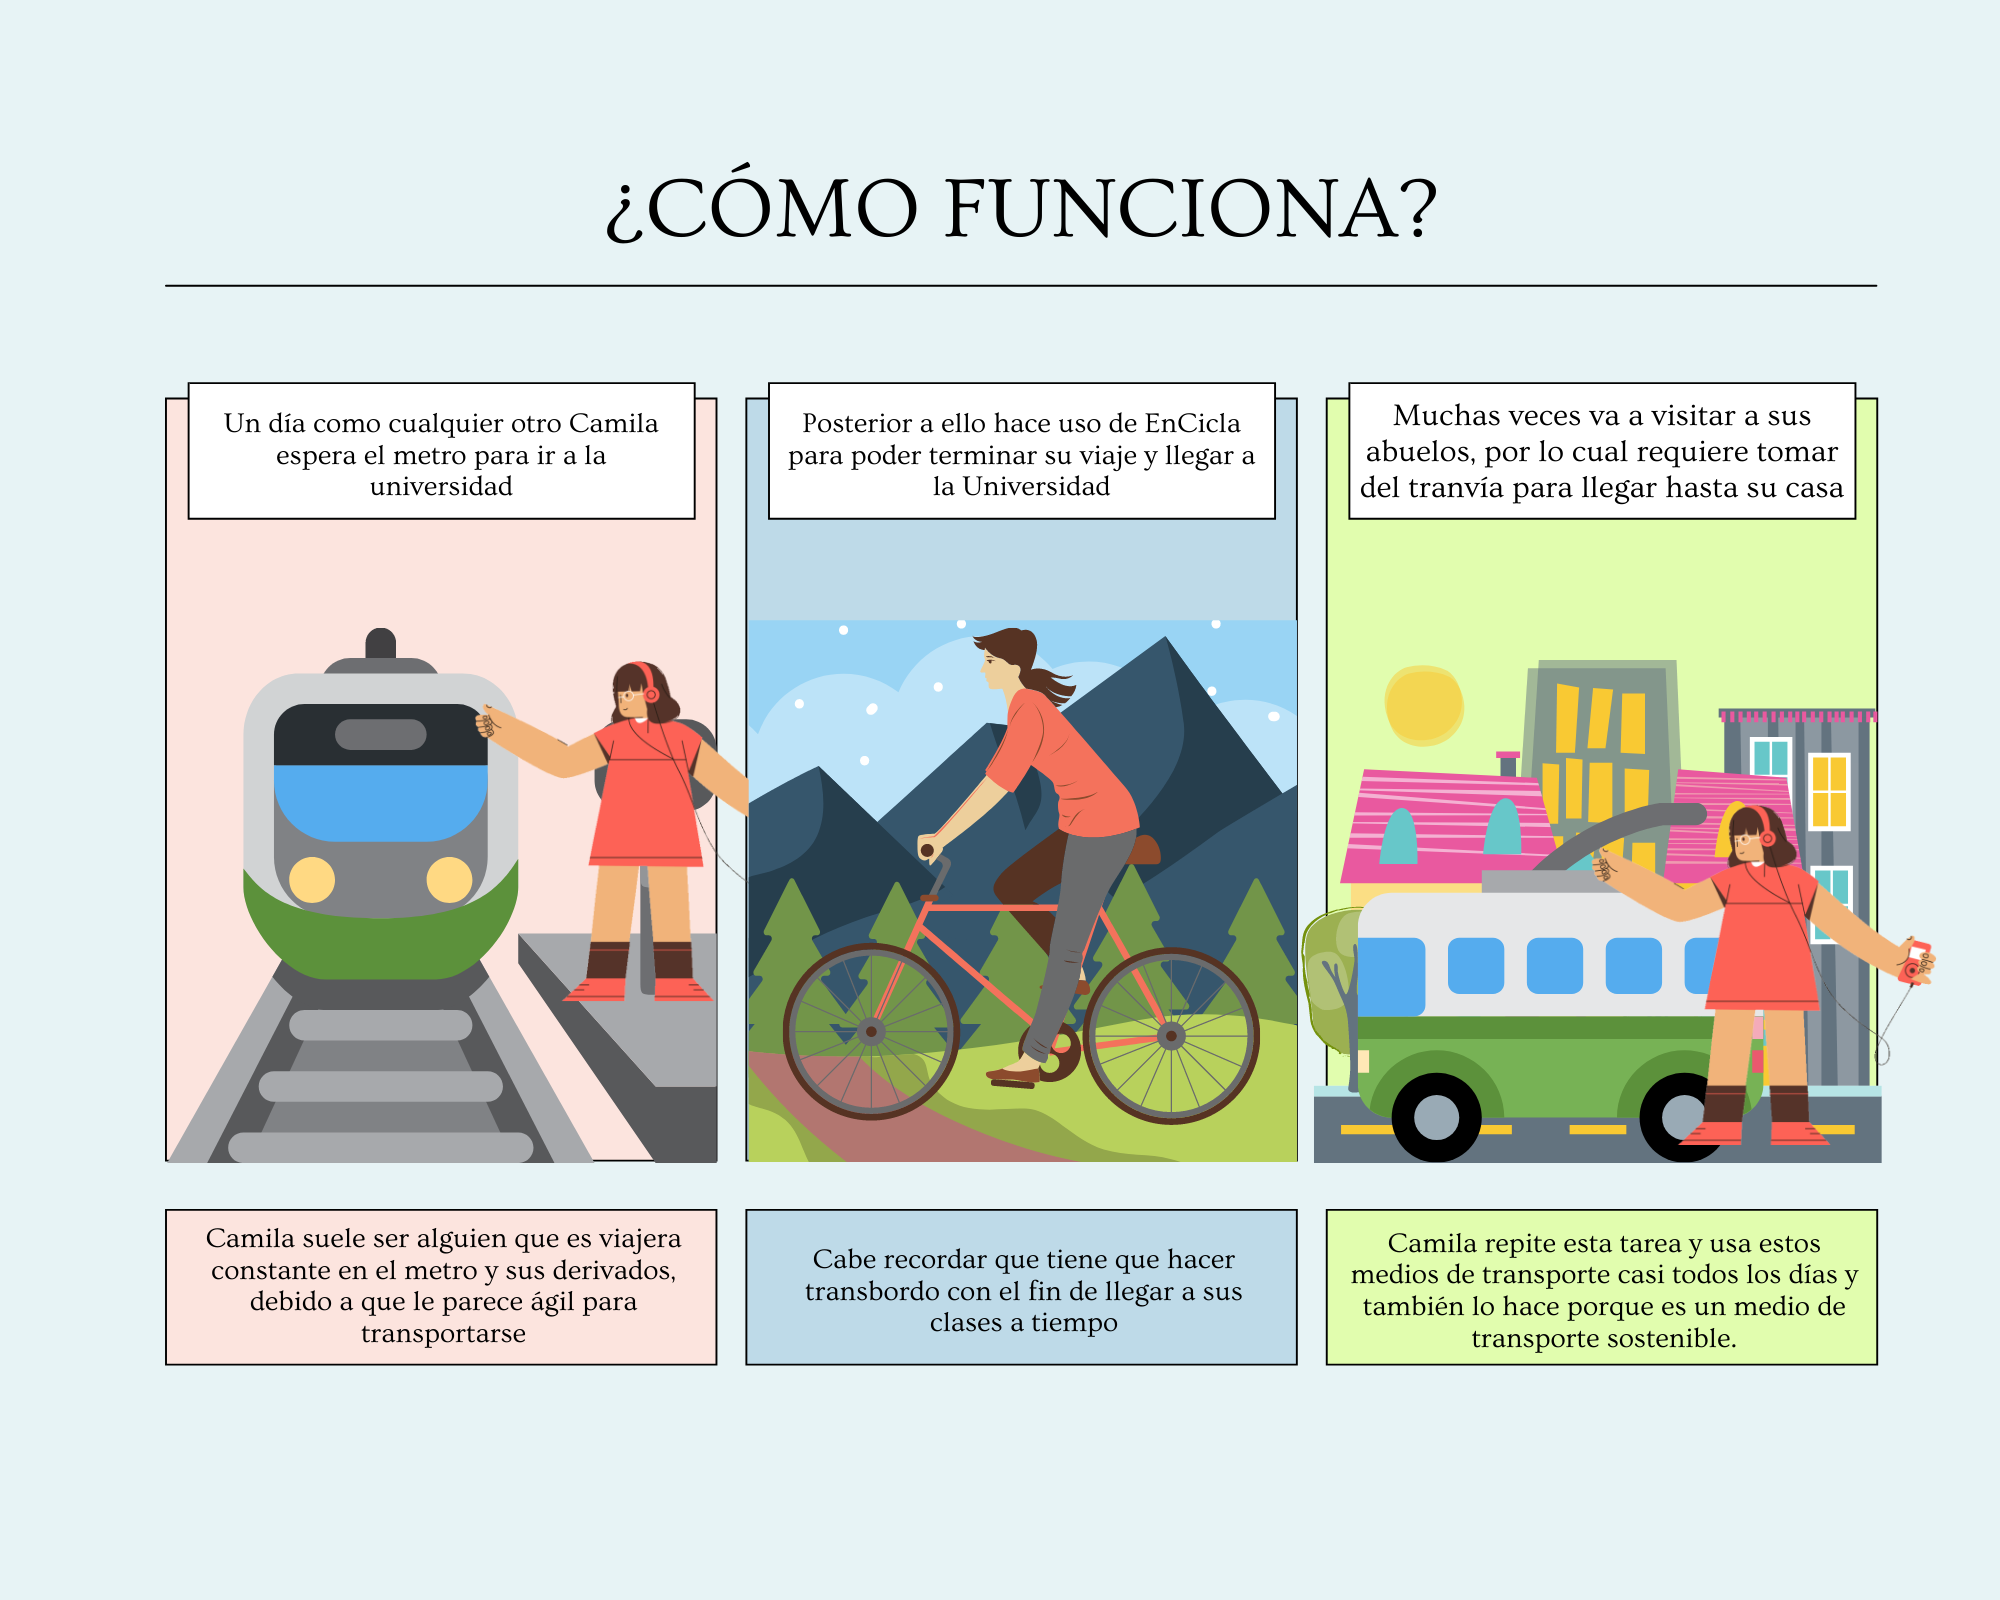
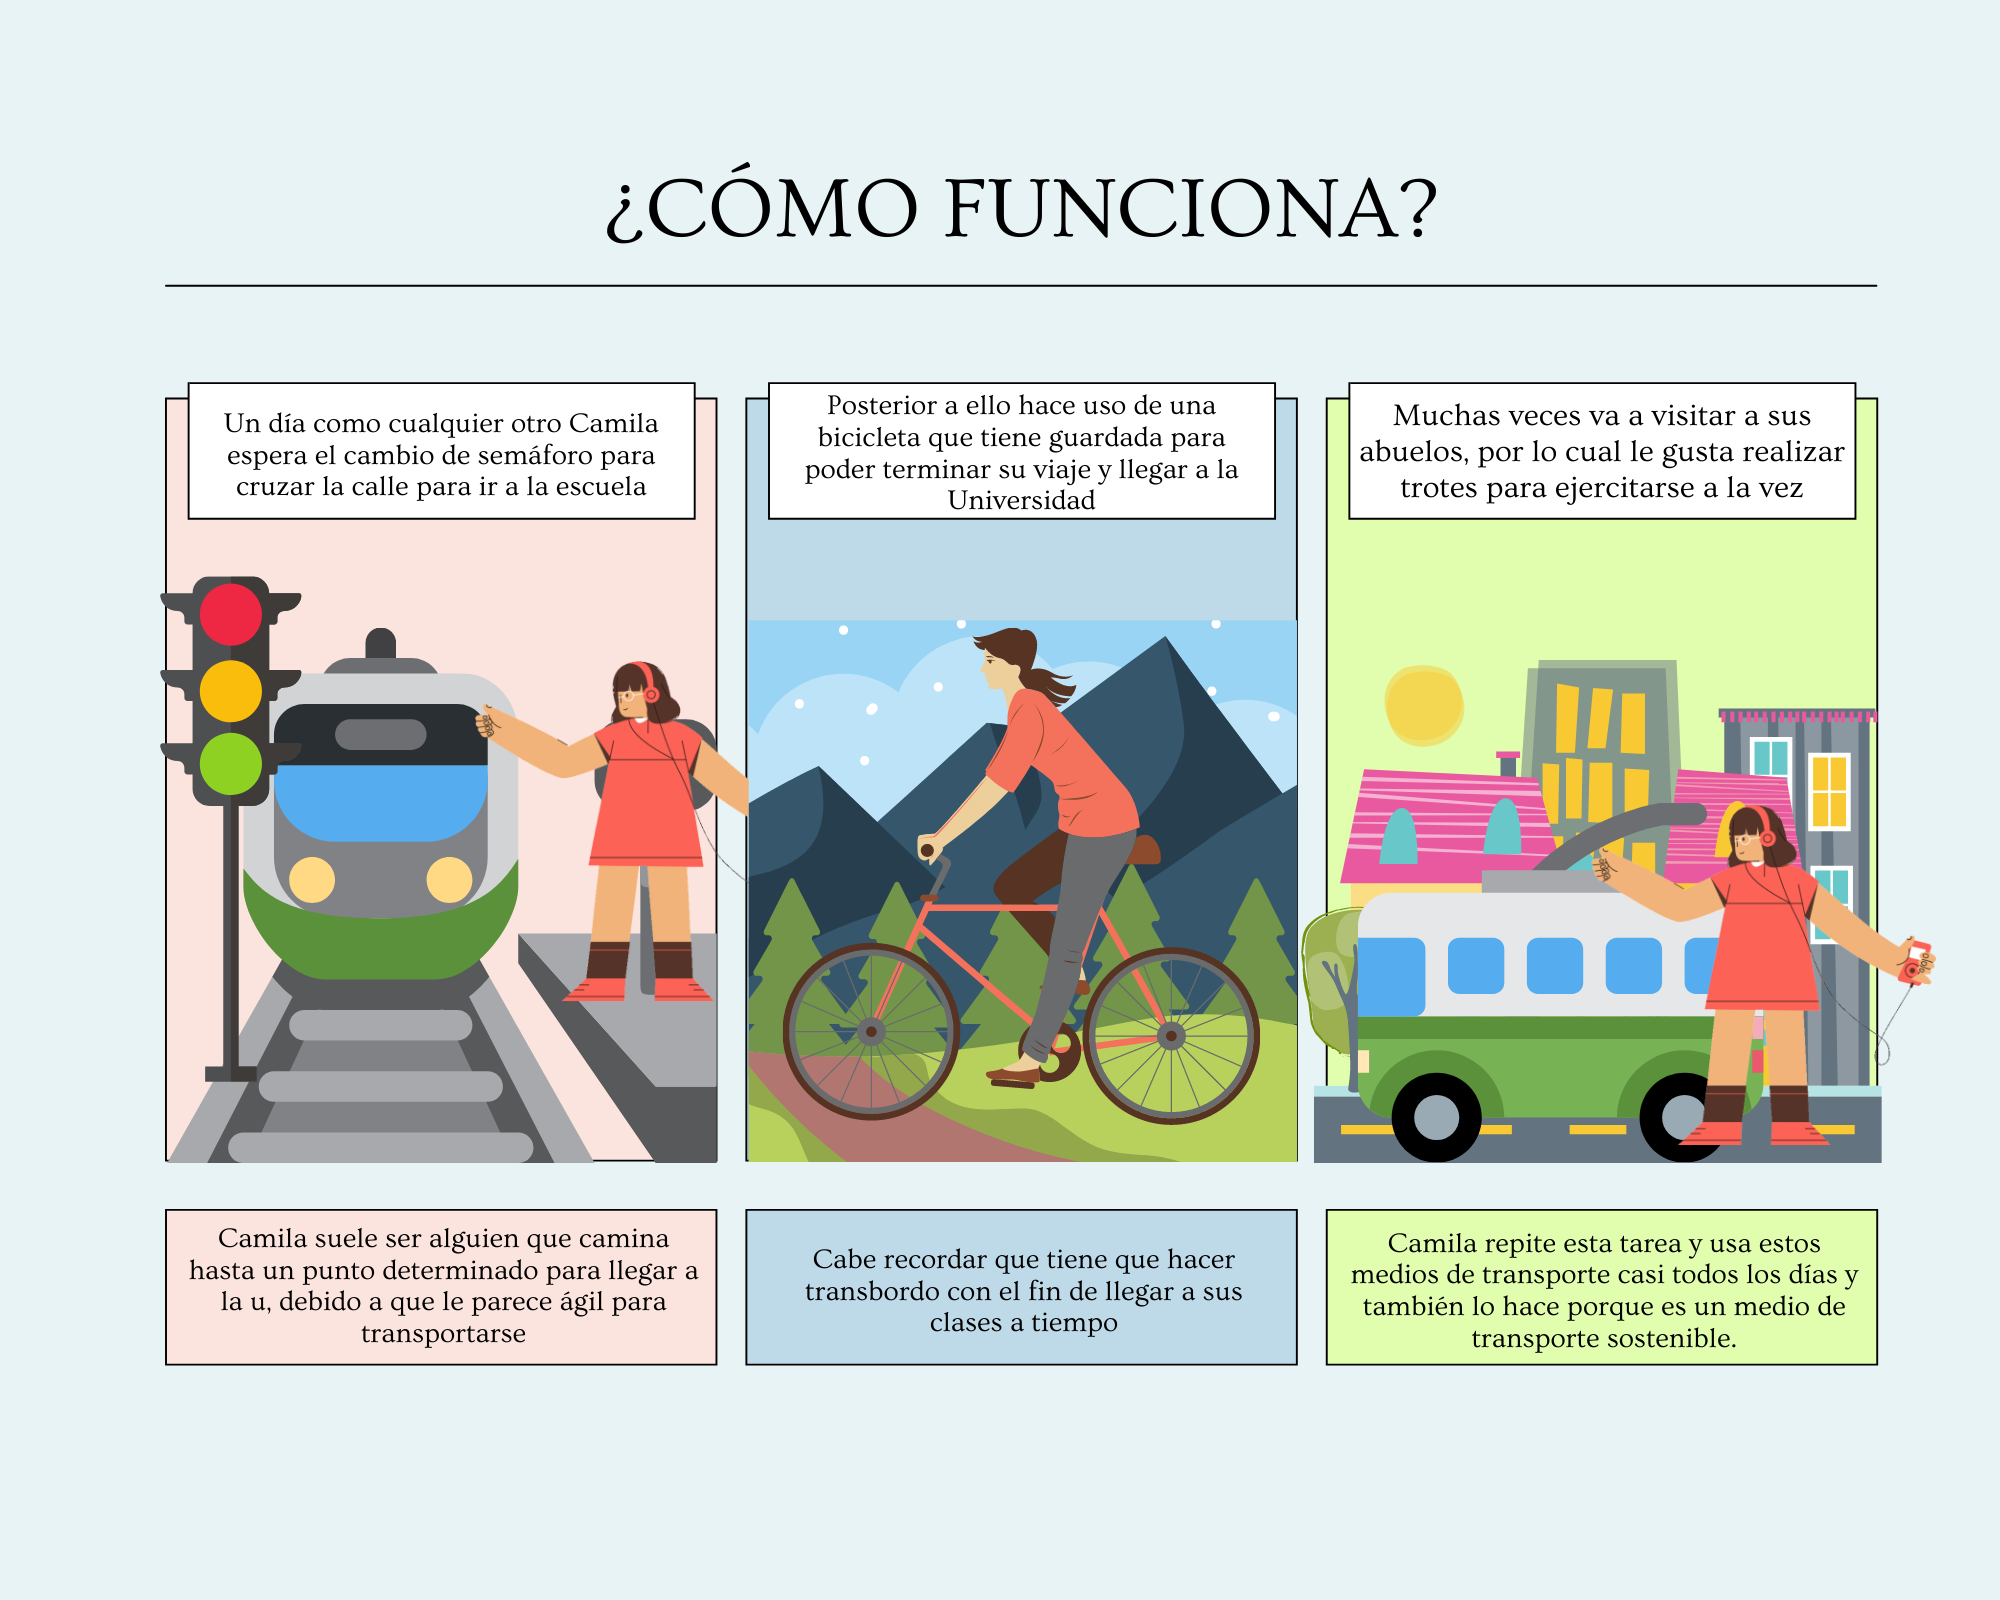
Arreglos de la interfaz e información

diff --git a/index.html b/index.html
@@ -79,15 +79,15 @@
     </div>
     <ul id="testimonials" class="nospace group btmspace-80">
       <li class="one_half first">
-        <blockquote>Se propone un aplicativo en que se remunere o se den cupones a las personas por hacer uso de medios de transporte más ecológicos y sostenibles como lo son: el metro, la bicicleta, patinetas</blockquote>
+        <blockquote>Se propone un aplicativo en que se remunere o se den cupones a las personas por hacer uso de medios de transporte más ecológicos y sostenibles como lo son: la bicicleta, patinetas, las caminatas</blockquote>
       </li>
       <li class="one_half">
-        <blockquote>Se propone un sitio web en alianza con el metro, el cual conceda puntos que son redimibles cada vez que se haga uso de el sistema de transporte del metro</blockquote>
+        <blockquote>Se propone un aplicativo en alianza con los entes de control ambiental y estatal, el cual conceda puntos que son redimibles cada vez que se empleen formas de transporte más ecológicas</blockquote>
       </li>
     </ul>
     <ul id="testimonials" class="nospace group btmspace-80">
       <li class="one_half first">
-        <blockquote>Se propone un aplicativo para todo el sistema de buses en la ciudad que sean ecológicos, el cual ofrezca bonos y cada cantidad de viajes otorgue viajes gratis y cupones de descuento</blockquote>
+        <blockquote>Se propone un aplicativo con gran cobertura en la ciudad y futuramente a nivel nacional, el cual ofrezca bonos y cada cantidad de kilómetros recorridos de manera sostenible conceda este tipo de incentivos.</blockquote>
       </li>
     </ul>
   </section>
@@ -113,7 +113,7 @@
           <figure><img src="images/trabajoe4.jpg" alt=""></figure>
           <div class="excerpt">
             <h6 class="heading">Idea 2</h6>
-            <p>La alianza con el metro para fomentar el uso del transporte sostenible y ecológico con el medio ambiente. Por otro lado, los incentivos van a dar la oportunidad de llamar más la atención de la gente para usar este tipo de transportes.</p>
+            <p>La alianza con el estado y entidades ambientales para fomentar el uso del transporte sostenible y ecológico con el medio ambiente. Por otro lado, los incentivos van a dar la oportunidad de llamar más la atención de la gente para usar este tipo de transportes.</p>
           </div>
         </article>
       </li>
@@ -122,7 +122,7 @@
           <figure><img src="images/expandir.jpg" alt=""></figure>
           <div class="excerpt" style="padding-top: 30px;">
             <h6 class="heading">Idea 3</h6>
-            <p>Mayor cobertura para el transporte de la ciudad, ofreciendo así llegar a más personas e impulsando a las empresas de transporte a modernizarse para ofrecer el servicio.</p>
+            <p>Mayor flexibilidad al momento de transitar por la ciudad, ofreciendo así llegar a más personas e impulsándolas a recurrir a estos medios de transporte. También aporta a la salud.</p>
           </div>
         </article>
       </li>

diff --git a/pages/informacion.html b/pages/informacion.html
@@ -62,7 +62,7 @@
         <li>
           <article>
             <div class="comcont">
-              <p>El valor agregado de nuestra idea es que buscamos aliarnos con una entidad que tiene gran influencia y magnitud en el transporte de la ciudad y que por otro lado es sostenible, es decir, contamos con el apoyo de una entidad la cual es una de las más importantes para la movilidad de muchas personas, las cuales poseen diversos gustos y que esta empresa del metro ofrece diferentes alternativas alternativas de transporte para los usuarios. Lo anterior se conecta a promover y difundir información sobre ciertos establecimientos comerciales, debido a que los incentivos son diversos y pueden dar a conocer diferentes empresas.</p>
+              <p>El valor agregado de nuestra idea es que buscamos aliarnos con entidades de caracter estatal y ambiental, las cuales van a permitir lograr tener mayor cobertura en diferentes lugares y promover de manera considerable este tipo de alternativas de trasnporte. Por otro lado los incentivos logran ser un gran puente, ya que van a promover el consumo de ciertos comercios impulsando la economía. Con la idea se espera en un futuro lograr apoyar a más comercios como los de tipo local y que logren ser reconocidos en el mercado. Al igual que el trabajo que se desarrollará aplicando y trabajando de la mano con otro software como lo es el de sistema de pasos y salud que poseen los dispositivos móviles.</p>
             </div>
           </article>
         </li>

diff --git a/pages/tecnológico.html b/pages/tecnológico.html
@@ -65,7 +65,7 @@ Licence URI: https://www.os-templates.com/template-terms
   </section>
 </div>
 
-<p style="text-align: center; font-size: 24px;">Para acceder al prototipo físico, dirijase dando click <a href="https://marvelapp.com/prototype/h61f321/screen/82735016">Aquí</a></p>
+<p style="text-align: center; font-size: 24px;">Para acceder al prototipo físico, dirijase dando click <a href="https://marvelapp.com/prototype/1627aa74">Aquí</a></p>
 
 <div class="wrapper row3">
   <main class="hoc container clear"> 

diff --git a/pages/pni.html b/pages/pni.html
@@ -64,7 +64,7 @@ Licence URI: https://www.os-templates.com/template-terms
       <div id="gallery" style="margin-top: -20px;">
         <figure>
           <img src="../images/LluviaIdeas1.png" alt="">
-          <img src="../images/LluviaIdeas2.png" style="margin-top: 20px;" alt="">
+          <img src="../images/LluviaIdeas2.png" style="margin-top: -5px;" alt="">
 
         </figure>
       </div>
